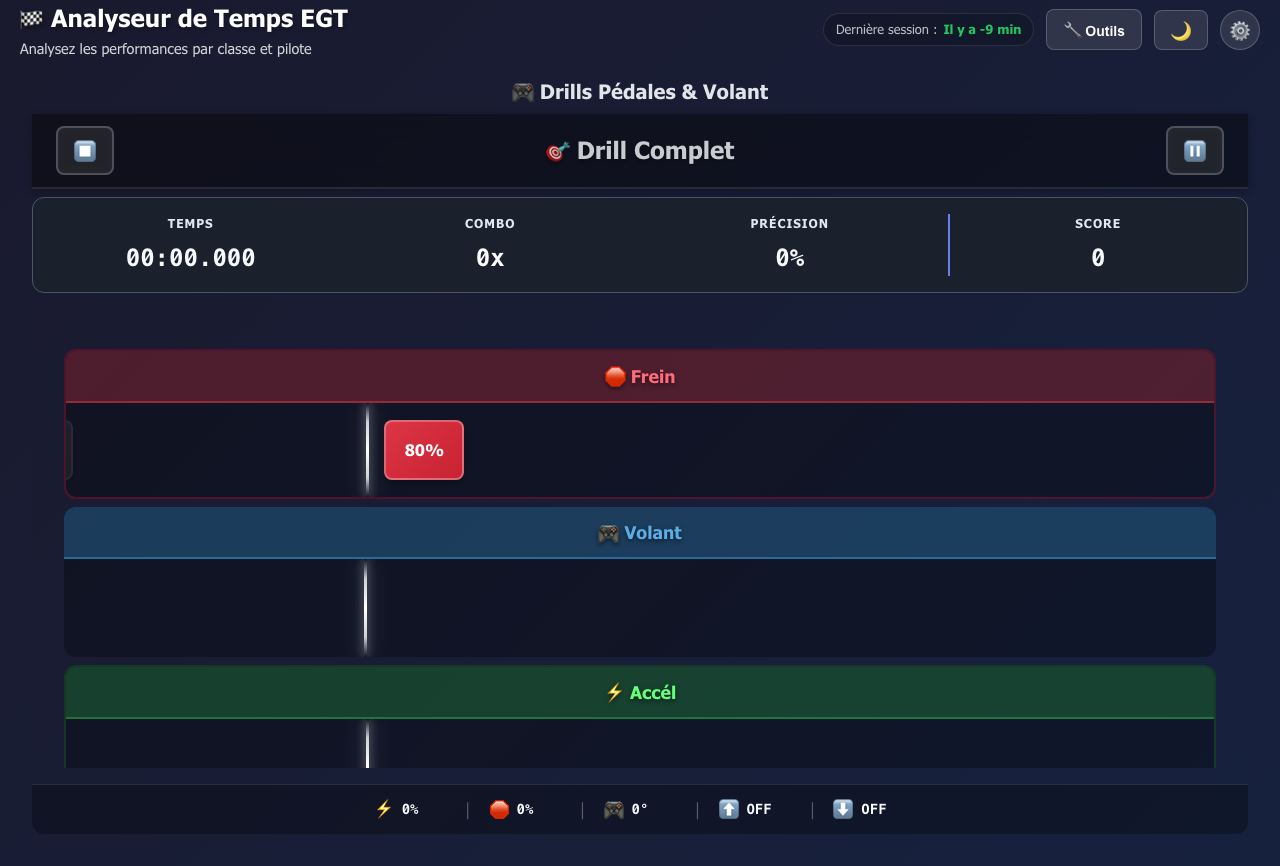
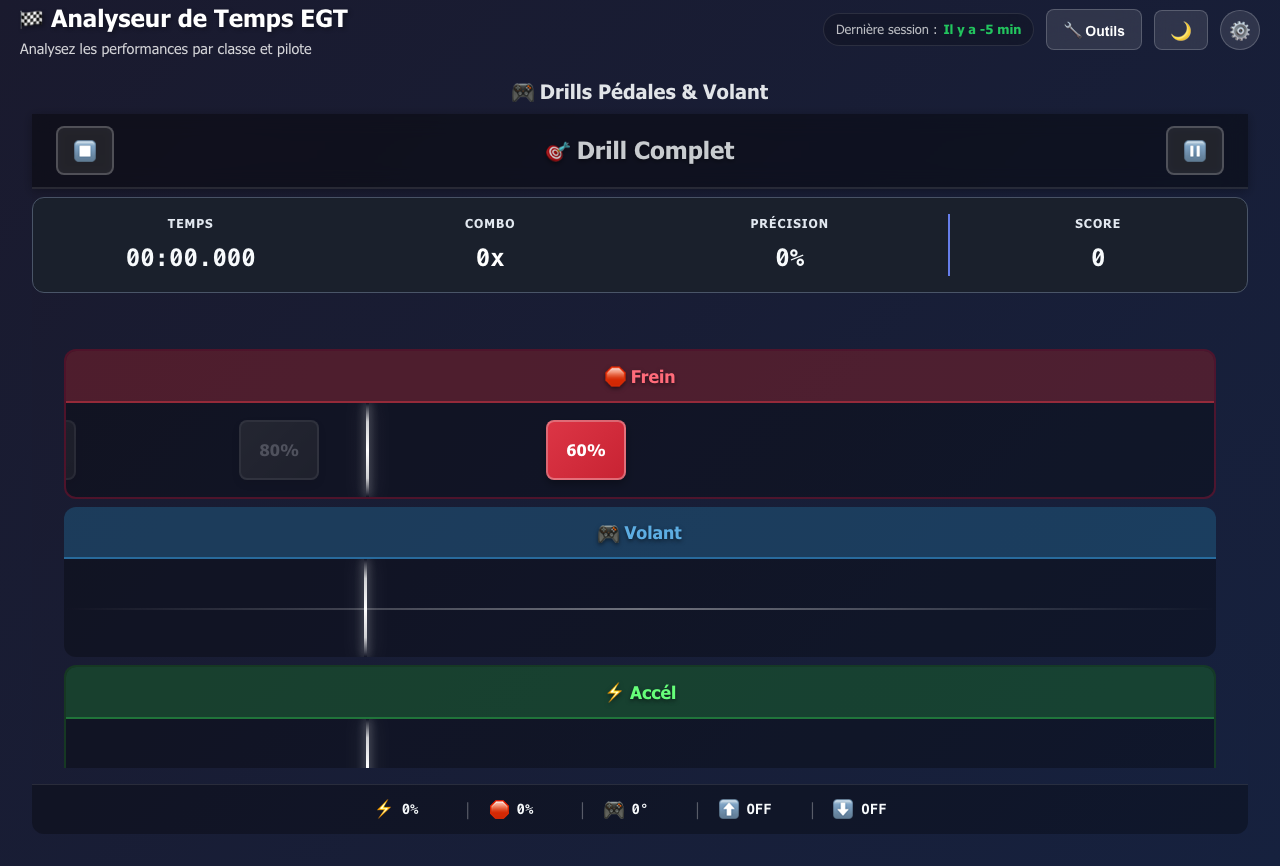
feat: Barres de volant partant du centre (0°)
🎮 Nouvelle représentation visuelle pour le volant

## Fonctionnement
- Ligne centrale visible (0°) dans la lane Volant
- Barres partent du centre et s'étendent vers le haut/bas
- Angle positif (+60°, +106°) → barre monte vers le haut
- Angle négatif (-60°, -90°) → barre descend vers le bas
- Hauteur proportionnelle à l'angle (175° = max)

## Calcul
- Hauteur barre = abs(angle) / 175 * 50%
- Position: bottom: 50% (positif) ou top: 50% (négatif)
- Min-height: 25px pour visibilité

## Style
- Largeur: 70px
- Gradient bleu vertical
- Bordure blanche 3px
- Ombre portée pour profondeur

✅ Comme les drills de pourcentage mais centré à 0°

Changed region(s): [[0.4062, 0.4677, 0.5, 0.5612], [0.2812, 0.4677, 0.375, 0.5612], [0.1875, 0.4988, 0.25, 0.53]]

diff --git a/frontend/src/components/pedal-wheel-drills/DDRFullGameplayArea.css b/frontend/src/components/pedal-wheel-drills/DDRFullGameplayArea.css
@@ -70,6 +70,28 @@
   overflow: hidden;
 }
 
+/* Lane content avec centre pour le volant */
+.ddr-lane-content-centered {
+  display: flex;
+  align-items: center;
+}
+
+/* Ligne centrale pour le volant (0°) */
+.ddr-wheel-center-line {
+  position: absolute;
+  left: 0;
+  right: 0;
+  top: 50%;
+  height: 2px;
+  background: linear-gradient(
+    to right,
+    rgba(255, 255, 255, 0) 0%,
+    rgba(255, 255, 255, 0.4) 50%,
+    rgba(255, 255, 255, 0) 100%
+  );
+  z-index: 5;
+}
+
 .ddr-judgment-zone {
   position: absolute;
   left: 300px;
@@ -118,6 +140,40 @@
   color: white;
 }
 
+/* Barre de volant (part du centre) */
+.ddr-target-wheel-bar {
+  position: absolute;
+  width: 70px;
+  display: flex;
+  align-items: center;
+  justify-content: center;
+  background: linear-gradient(to bottom, #5dade2 0%, #3498db 50%, #2980b9 100%);
+  color: white;
+  border-radius: 6px;
+  transition: transform 0.1s ease, opacity 0.2s ease;
+  font-weight: 700;
+  font-size: 0.85rem;
+  box-shadow: 0 4px 12px rgba(0, 0, 0, 0.4);
+  border: 3px solid rgba(255, 255, 255, 0.4);
+  min-height: 25px;
+  max-height: 50%;
+  z-index: 8;
+}
+
+.ddr-target-wheel-bar .ddr-target-value-wheel {
+  writing-mode: horizontal-tb;
+  text-orientation: mixed;
+}
+
+/* Ajuster la position pour les angles négatifs */
+.ddr-target-wheel-bar[style*="top: 50%"] {
+  transform-origin: top center;
+}
+
+.ddr-target-wheel-bar[style*="bottom: 50%"] {
+  transform-origin: bottom center;
+}
+
 .ddr-target-accel {
   background: linear-gradient(135deg, #28a745 0%, #218838 100%);
   color: white;
@@ -135,7 +191,17 @@
   transform: translateY(-50%) scale(0.8);
 }
 
+.ddr-target-wheel-bar.ddr-target-hit {
+  opacity: 0.3;
+  transform: scale(0.8);
+}
+
 .ddr-target-missed {
+  opacity: 0.2;
+  filter: grayscale(100%);
+}
+
+.ddr-target-wheel-bar.ddr-target-missed {
   opacity: 0.2;
   filter: grayscale(100%);
 }
@@ -145,8 +211,14 @@
   border-color: rgba(255, 255, 255, 0.2);
 }
 
+.ddr-target-wheel-bar.ddr-target-blind {
+  background: rgba(100, 100, 100, 0.5) !important;
+  border-color: rgba(255, 255, 255, 0.2);
+}
+
 .ddr-target-blind .ddr-target-value,
-.ddr-target-blind .ddr-target-icon {
+.ddr-target-blind .ddr-target-icon,
+.ddr-target-blind .ddr-target-value-wheel {
   display: none;
 }
 

diff --git a/frontend/src/components/pedal-wheel-drills/DDRFullGameplayArea.jsx b/frontend/src/components/pedal-wheel-drills/DDRFullGameplayArea.jsx
@@ -474,24 +474,34 @@ export function DDRFullGameplayArea({
         {/* Lane 2: Volant */}
         <div className="ddr-lane ddr-lane-wheel">
           <div className="ddr-lane-header">🎮 Volant</div>
-          <div className="ddr-lane-content">
+          <div className="ddr-lane-content ddr-lane-content-centered">
+            {/* Ligne centrale (0°) */}
+            <div className="ddr-wheel-center-line"></div>
+            
             {/* Zone de judgment */}
             <div className="ddr-judgment-zone"></div>
             
-            {/* Cibles de volant */}
+            {/* Cibles de volant (barres partant du centre) */}
             {wheelTargets.map(target => {
               const xPos = getTargetPosition(target);
               if (xPos < -100 || xPos > 600) return null;
               
+              // Calculer la hauteur de la barre (proportionnelle à l'angle)
+              // 175° = 50% (la moitié de la lane)
+              const heightPercent = Math.abs(target.angle) / 175 * 50;
+              const isPositive = target.angle >= 0;
+              
               return (
                 <div
                   key={target.id}
-                  className={`ddr-target ddr-target-wheel ${target.hit ? 'ddr-target-hit' : ''} ${target.missed ? 'ddr-target-missed' : ''} ${blindMode ? 'ddr-target-blind' : ''}`}
+                  className={`ddr-target ddr-target-wheel-bar ${target.hit ? 'ddr-target-hit' : ''} ${target.missed ? 'ddr-target-missed' : ''} ${blindMode ? 'ddr-target-blind' : ''}`}
                   style={{
-                    left: `${xPos}px`
+                    left: `${xPos}px`,
+                    height: `${heightPercent}%`,
+                    [isPositive ? 'bottom' : 'top']: '50%'
                   }}
                 >
-                  {!blindMode && <span className="ddr-target-value">{target.angle}°</span>}
+                  {!blindMode && <span className="ddr-target-value ddr-target-value-wheel">{target.angle}°</span>}
                   {target.judgment && (
                     <span className={`ddr-judgment-label ddr-judgment-${target.judgment.toLowerCase()}`}>
                       {target.judgment}

diff --git a/test-results/full-combo-drill-Drill-Com-35d1b-es-défilent-sur-les-4-lanes-chromium/error-context.md b/test-results/full-combo-drill-Drill-Com-35d1b-es-défilent-sur-les-4-lanes-chromium/error-context.md
@@ -1,0 +1,71 @@
+# Page snapshot
+
+```yaml
+- generic [ref=e3]:
+  - banner [ref=e4]:
+    - generic [ref=e5]:
+      - generic [ref=e6]:
+        - heading "🏁 Analyseur de Temps EGT" [level=1] [ref=e7] [cursor=pointer]
+        - paragraph [ref=e8]: Analysez les performances par classe et pilote
+      - generic [ref=e9]:
+        - generic [ref=e10] [cursor=pointer]:
+          - generic [ref=e11]: "Dernière session :"
+          - 'generic "Dernière session: • Début: 2026-01-11 22 h 35 min 03 s • Durée estimée: 2990min • Fin estimée: 2026-01-14 00 h 25 min 03 s • Nombre de sessions: 580" [ref=e12]': Il y a -2 min
+        - button "Outils" [ref=e14] [cursor=pointer]: 🔧 Outils
+        - 'button "Actuellement: Mode sombre • Cliquer pour: Suivre le système" [ref=e15] [cursor=pointer]': 🌙
+        - button "Connexion admin" [ref=e16] [cursor=pointer]: ⚙
+  - main [ref=e17]:
+    - generic [ref=e18]:
+      - heading "🎮 Drills Pédales & Volant" [level=3] [ref=e20]
+      - generic [ref=e22]:
+        - generic [ref=e23]:
+          - button "⏹" [ref=e24] [cursor=pointer]
+          - heading "🎯 Drill Complet" [level=3] [ref=e25]
+          - button "⏸" [ref=e26] [cursor=pointer]
+        - generic [ref=e27]:
+          - generic [ref=e28]:
+            - generic [ref=e29]: Temps
+            - generic [ref=e30]: 00:00.000
+          - generic [ref=e31]:
+            - generic [ref=e32]: Combo
+            - generic [ref=e34]: 0x
+          - generic [ref=e35]:
+            - generic [ref=e36]: Précision
+            - generic [ref=e37]: 0%
+          - generic [ref=e38]:
+            - generic [ref=e39]: Score
+            - generic [ref=e40]: "0"
+        - generic [ref=e43]:
+          - generic [ref=e44]:
+            - generic [ref=e45]: 🛑 Frein
+            - generic [ref=e46]:
+              - generic [ref=e49]: 60%
+              - generic [ref=e51]: 35%
+          - generic [ref=e52]:
+            - generic [ref=e53]: 🎮 Volant
+            - generic [ref=e54]:
+              - generic [ref=e58]: 64°
+              - generic [ref=e60]: 112°
+          - generic [ref=e62]: ⚡ Accél
+          - generic [ref=e66]: 🔀 Shifter
+        - generic [ref=e69]:
+          - generic [ref=e70]:
+            - generic [ref=e71]: ⚡
+            - generic [ref=e72]: 0%
+          - generic [ref=e73]: │
+          - generic [ref=e74]:
+            - generic [ref=e75]: 🛑
+            - generic [ref=e76]: 0%
+          - generic [ref=e77]: │
+          - generic [ref=e78]:
+            - generic [ref=e79]: 🎮
+            - generic [ref=e80]: 0°
+          - generic [ref=e81]: │
+          - generic [ref=e82]:
+            - generic [ref=e83]: ⬆
+            - generic [ref=e84]: "OFF"
+          - generic [ref=e85]: │
+          - generic [ref=e86]:
+            - generic [ref=e87]: ⬇
+            - generic [ref=e88]: "OFF"
+```
